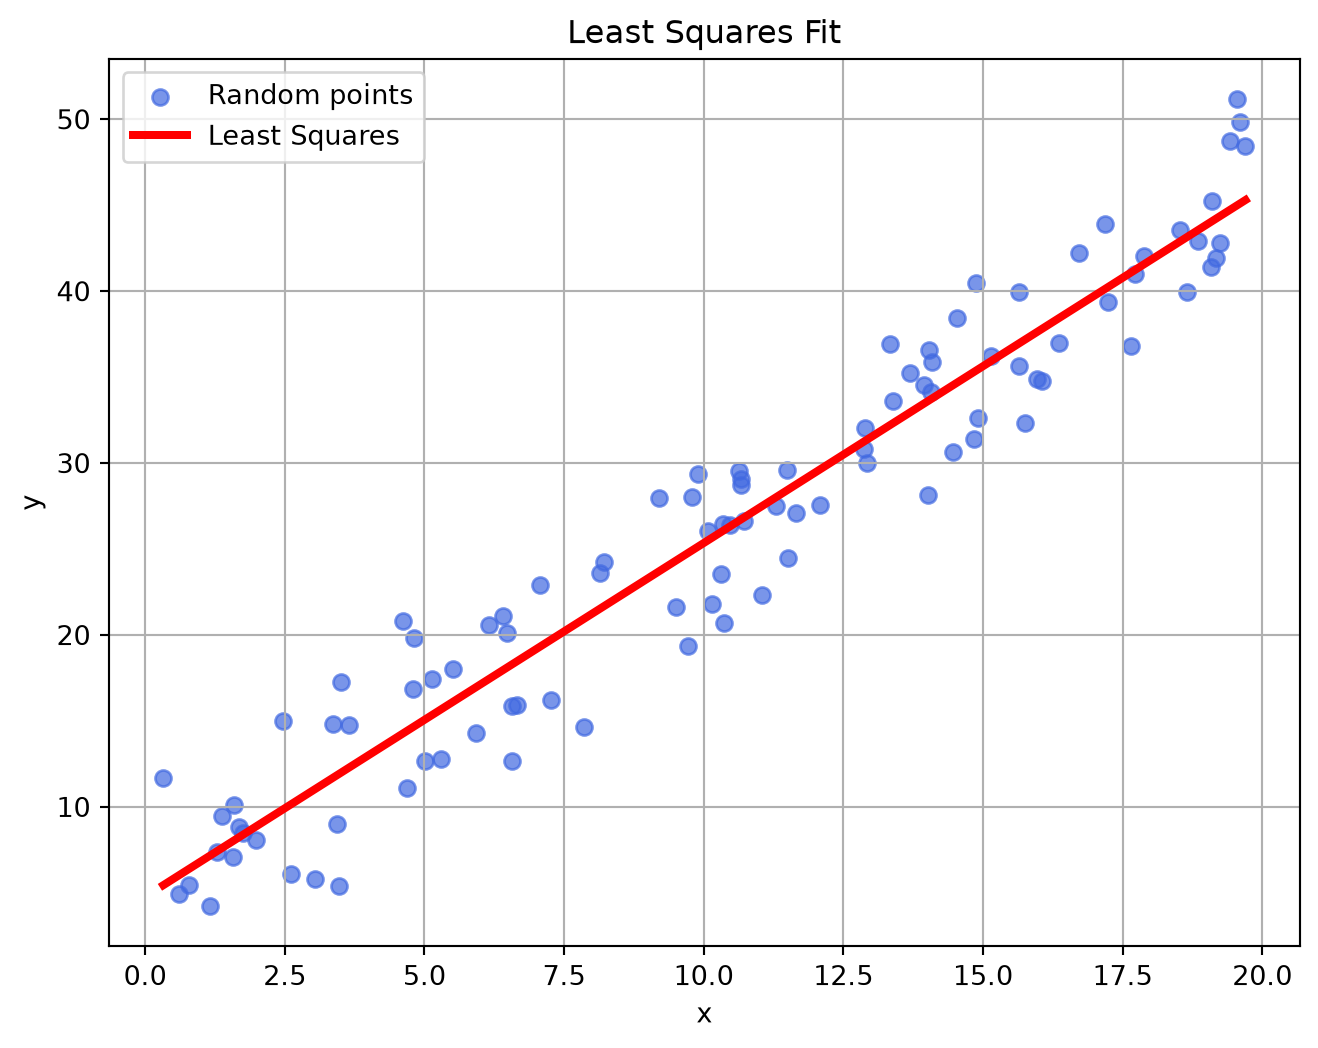
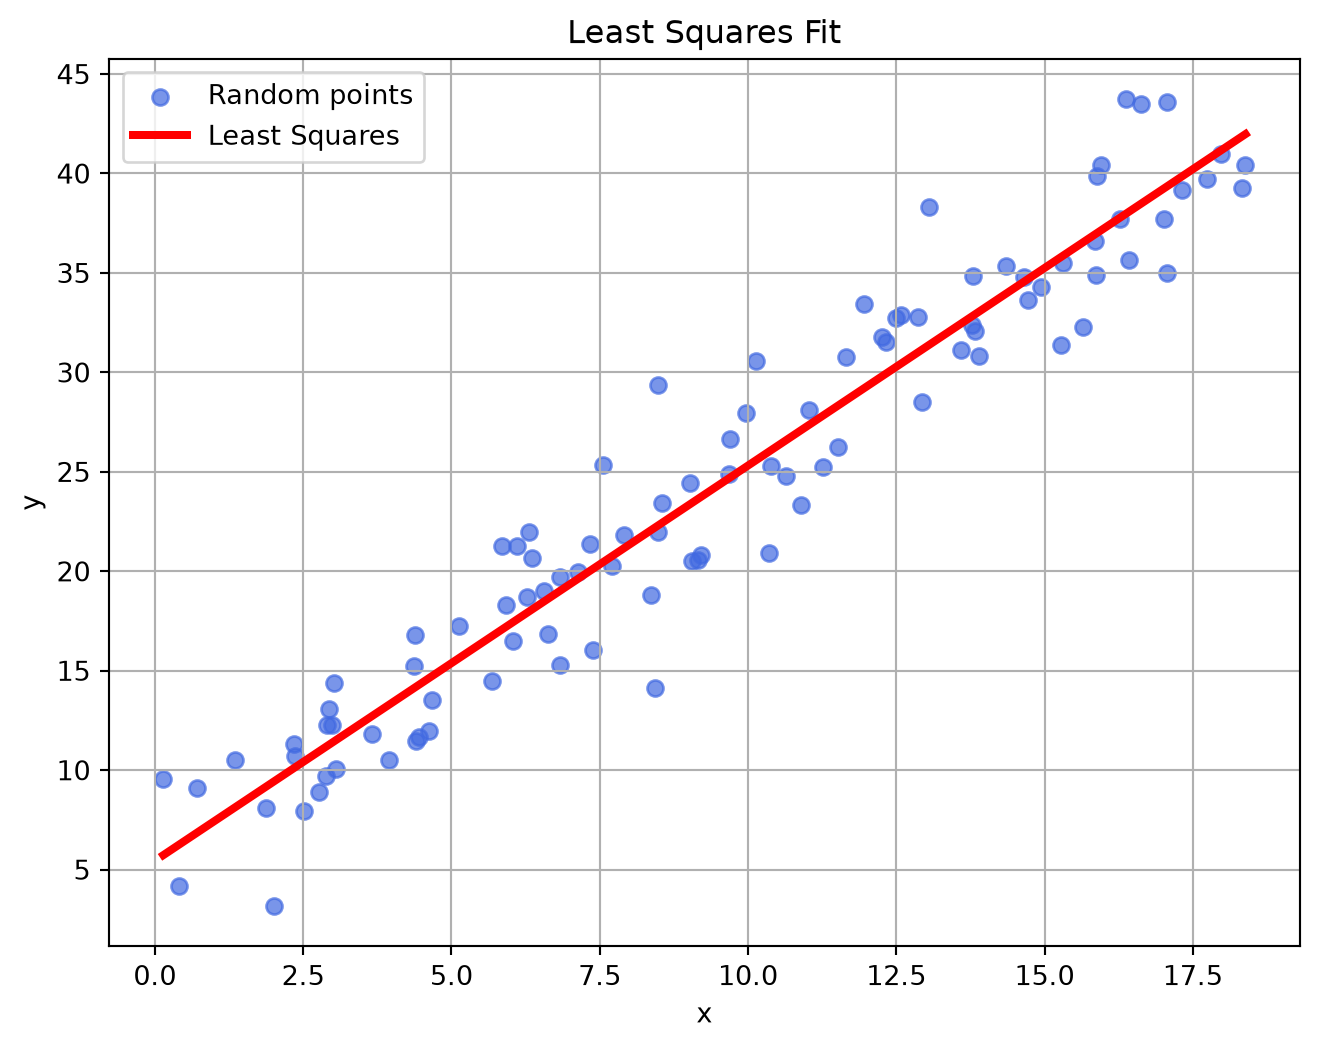
secondderivativetest

diff --git a/_site/note/multivariable-calculus/2.html b/_site/note/multivariable-calculus/2.html
@@ -489,9 +489,13 @@ window.Quarto = {
   <li><a href="#điểm-saddle" id="toc-điểm-saddle" class="nav-link" data-scroll-target="#điểm-saddle">Điểm saddle</a></li>
   </ul></li>
   <li><a href="#least-squares" id="toc-least-squares" class="nav-link" data-scroll-target="#least-squares">Least squares</a></li>
+  <li><a href="#second-derivative-test" id="toc-second-derivative-test" class="nav-link" data-scroll-target="#second-derivative-test">Second derivative test</a>
+  <ul class="collapse">
+  <li><a href="#general-case" id="toc-general-case" class="nav-link" data-scroll-target="#general-case">General case</a></li>
+  </ul></li>
   <li><a href="#differentials" id="toc-differentials" class="nav-link" data-scroll-target="#differentials">Differentials</a></li>
   <li><a href="#chain-rule" id="toc-chain-rule" class="nav-link" data-scroll-target="#chain-rule">Chain rule</a></li>
-  <li><a href="#gradientb" id="toc-gradientb" class="nav-link" data-scroll-target="#gradientb">Gradientb</a></li>
+  <li><a href="#gradient" id="toc-gradient" class="nav-link" data-scroll-target="#gradient">Gradient</a></li>
   <li><a href="#directional-derivative" id="toc-directional-derivative" class="nav-link" data-scroll-target="#directional-derivative">Directional derivative</a></li>
   <li><a href="#tangent-plane-1" id="toc-tangent-plane-1" class="nav-link" data-scroll-target="#tangent-plane-1">Tangent plane</a></li>
   <li><a href="#lagrange-multipliers" id="toc-lagrange-multipliers" class="nav-link" data-scroll-target="#lagrange-multipliers">Lagrange multipliers</a></li>
@@ -533,7 +537,7 @@ window.Quarto = {
 <h1>Functions of several variables</h1>
 <p>Như ta đã tiếp xúc với hàm đơn biến từ trước, ví dụ như <span class="math inline">f(x) = x^2</span> hay <span class="math inline">f(x) = -x + 2</span>. Thì trong không gian 3 chiều, hay tổng quát hơn là n chiều, chúng ta cũng có thể biểu diễn nó bằng <span class="math inline">n - 1</span> biến.</p>
 <p>Ví dụ: Hàm <span class="math inline">f(x, y) = x^2 + y^2</span></p>
-<div id="300fc02b" class="cell" data-execution_count="1">
+<div id="625bb9bd" class="cell" data-execution_count="1">
 <details class="code-fold">
 <summary>Code</summary>
 <div class="code-copy-outer-scaffold"><div class="sourceCode cell-code" id="cb1"><pre class="sourceCode python code-with-copy"><code class="sourceCode python"><span id="cb1-1"><a href="#cb1-1" aria-hidden="true" tabindex="-1"></a><span class="im">import</span> numpy <span class="im">as</span> np</span>
@@ -581,7 +585,7 @@ window.Quarto = {
 f_x = \frac {\partial f}{\partial x} = \lim _{\Delta x \rightarrow 0} \frac{f(x_0 + \Delta x, y_0) - f(x_0, y_0)}{\Delta x} \\
 f_y = \frac {\partial f}{\partial x} = \lim _{\Delta y \rightarrow 0} \frac{f(x_0, y_0 + \Delta y) - f(x_0, y_0)}{\Delta y}
 </span></p>
-<div id="b8c2495d" class="cell" data-execution_count="2">
+<div id="38bfc496" class="cell" data-execution_count="2">
 <div class="cell-output cell-output-display">
 <div>
 <figure class="figure">
@@ -594,7 +598,7 @@ f_y = \frac {\partial f}{\partial x} = \lim _{\Delta y \rightarrow 0} \frac{f(x_
 <h2 class="anchored" data-anchor-id="cách-tính-đạo-hàm-từng-phần">Cách tính đạo hàm từng phần</h2>
 <p>Như đã nói ở trước, ta sẽ coi một biến là hằng số.</p>
 <p>Ví dụ hàm <span class="math inline">f(x, y) = x^2 + x^3y + 2y + 3x</span></p>
-<div id="57e380a5" class="cell" data-execution_count="3">
+<div id="a891701b" class="cell" data-execution_count="3">
 <details class="code-fold">
 <summary>Code</summary>
 <div class="code-copy-outer-scaffold"><div class="sourceCode cell-code" id="cb2"><pre class="sourceCode python code-with-copy"><code class="sourceCode python"><span id="cb2-1"><a href="#cb2-1" aria-hidden="true" tabindex="-1"></a><span class="im">import</span> numpy <span class="im">as</span> np</span>
@@ -659,7 +663,7 @@ f_y = \frac {\partial f}{\partial x} = \lim _{\Delta y \rightarrow 0} \frac{f(x_
 <p>Tương tự vậy với mặt phẳng 3D, tiếp tuyến của điểm là mặt phẳng 2D tạo bởi 2 đường tiếp tuyến khi đạo hàm theo x và đạo hàm theo y tại điểm đó.</p>
 <p>Ví dụ: <span class="math inline">f(x, y) = x^2 + y^2</span></p>
 <p>Ta xét tại điểm <span class="math inline">(x_0, y_0) = (1, 1)</span>, mặt phẳng tiếp tuyến là mặt phẳng màu cam trong hình.</p>
-<div id="575301fb" class="cell" data-execution_count="4">
+<div id="df3133b8" class="cell" data-execution_count="4">
 <details class="code-fold">
 <summary>Code</summary>
 <div class="code-copy-outer-scaffold"><div class="sourceCode cell-code" id="cb3"><pre class="sourceCode python code-with-copy"><code class="sourceCode python"><span id="cb3-1"><a href="#cb3-1" aria-hidden="true" tabindex="-1"></a><span class="im">import</span> numpy <span class="im">as</span> np</span>
@@ -733,7 +737,7 @@ f_y = \frac {\partial f}{\partial x} = \lim _{\Delta y \rightarrow 0} \frac{f(x_
 <p>Nhưng cũng vì thế mà sẽ có 3 trường hợp xảy ra:</p>
 <section id="điểm-cực-tiểu" class="level2">
 <h2 class="anchored" data-anchor-id="điểm-cực-tiểu">Điểm cực tiểu</h2>
-<div id="2ef5accd" class="cell" data-execution_count="5">
+<div id="f26831ad" class="cell" data-execution_count="5">
 <details class="code-fold">
 <summary>Code</summary>
 <div class="code-copy-outer-scaffold"><div class="sourceCode cell-code" id="cb4"><pre class="sourceCode python code-with-copy"><code class="sourceCode python"><span id="cb4-1"><a href="#cb4-1" aria-hidden="true" tabindex="-1"></a><span class="im">import</span> numpy <span class="im">as</span> np</span>
@@ -803,7 +807,7 @@ f_y = \frac {\partial f}{\partial x} = \lim _{\Delta y \rightarrow 0} \frac{f(x_
 </section>
 <section id="điểm-cực-đại" class="level2">
 <h2 class="anchored" data-anchor-id="điểm-cực-đại">Điểm cực đại</h2>
-<div id="c2440589" class="cell" data-execution_count="6">
+<div id="d732ba14" class="cell" data-execution_count="6">
 <details class="code-fold">
 <summary>Code</summary>
 <div class="code-copy-outer-scaffold"><div class="sourceCode cell-code" id="cb5"><pre class="sourceCode python code-with-copy"><code class="sourceCode python"><span id="cb5-1"><a href="#cb5-1" aria-hidden="true" tabindex="-1"></a><span class="im">import</span> numpy <span class="im">as</span> np</span>
@@ -874,7 +878,7 @@ f_y = \frac {\partial f}{\partial x} = \lim _{\Delta y \rightarrow 0} \frac{f(x_
 <section id="điểm-saddle" class="level2">
 <h2 class="anchored" data-anchor-id="điểm-saddle">Điểm saddle</h2>
 <p>Vừa là cực dại vừa là cực tiểu.</p>
-<div id="f1dd67ef" class="cell" data-execution_count="7">
+<div id="ec77fa51" class="cell" data-execution_count="7">
 <details class="code-fold">
 <summary>Code</summary>
 <div class="code-copy-outer-scaffold"><div class="sourceCode cell-code" id="cb6"><pre class="sourceCode python code-with-copy"><code class="sourceCode python"><span id="cb6-1"><a href="#cb6-1" aria-hidden="true" tabindex="-1"></a><span class="im">import</span> numpy <span class="im">as</span> np</span>
@@ -946,7 +950,7 @@ f_y = \frac {\partial f}{\partial x} = \lim _{\Delta y \rightarrow 0} \frac{f(x_
 </section>
 <section id="least-squares" class="level1">
 <h1>Least squares</h1>
-<div id="65fb4f34" class="cell" data-execution_count="8">
+<div id="258c557c" class="cell" data-execution_count="8">
 <details class="code-fold">
 <summary>Code</summary>
 <div class="code-copy-outer-scaffold"><div class="sourceCode cell-code" id="cb7"><pre class="sourceCode python code-with-copy"><code class="sourceCode python"><span id="cb7-1"><a href="#cb7-1" aria-hidden="true" tabindex="-1"></a><span class="im">import</span> numpy <span class="im">as</span> np</span>
@@ -1055,6 +1059,49 @@ a \\ b
 </span></p>
 <hr>
 </section>
+<section id="second-derivative-test" class="level1">
+<h1>Second derivative test</h1>
+<p>Như đã nói ở trước, Second derivative có thể giúp xác định xem đó là suy biến, cực đại, cực tiểu, hay là điểm saddle (yên ngựa).</p>
+<p><span class="math display">
+w = a\left(x^2 + \frac b a xy\right) + cy^2
+</span></p>
+<p><span class="math display">
+w = a\left(x + \frac b {2a} y\right)^2 + \left(c - \frac {b^2}{4a}\right)y^2
+</span></p>
+<p><span class="math display">
+w = \frac 1 {4a} \left[ 4a^2 \left( x + \frac b {2a}y \right)^2  + (4ac - b^2)y^2 \right]
+</span></p>
+<p>3 cases:</p>
+<ol type="1">
+<li><span class="math inline">4ac - b^2 &lt; 0 \Rightarrow</span> saddle point.</li>
+<li><span class="math inline">4ac - b^2 = 0 \Rightarrow</span> degenerate critical point.</li>
+<li><span class="math inline">4ac - b^2 &gt; 0</span>
+<ul>
+<li><span class="math inline">\rightarrow</span> if <span class="math inline">a &gt; 0</span> minimum.</li>
+<li><span class="math inline">\rightarrow</span> if <span class="math inline">a &lt; 0</span> maximum.</li>
+</ul></li>
+</ol>
+<section id="general-case" class="level2">
+<h2 class="anchored" data-anchor-id="general-case">General case</h2>
+<p><span class="math display">
+\frac {\partial^2 f}{\partial x^2} = f_{xx}; \space
+\frac {\partial^2 f}{\partial y^2} = f_{yy}; \space
+\frac {\partial^2 f}{\partial x \partial y} = f_{xy} =
+\frac {\partial^2 f}{\partial y \partial x} = f_{yx}
+</span></p>
+<p>Let <span class="math inline">A = f_{xx}</span>, <span class="math inline">B = f_{xy}</span> and <span class="math inline">C = f_{yy}</span>, we have 3 cases:</p>
+<ol type="1">
+<li><span class="math inline">AC - B^2 &lt; 0 \Rightarrow</span> saddle point.</li>
+<li><span class="math inline">AC - B^2 = 0 \Rightarrow</span> cant conclude</li>
+<li><span class="math inline">AC - B^2 &gt; 0</span>
+<ul>
+<li><span class="math inline">\rightarrow</span> if <span class="math inline">A &gt; 0</span> local minimum.</li>
+<li><span class="math inline">\rightarrow</span> if <span class="math inline">A &lt; 0</span> local maximum.</li>
+</ul></li>
+</ol>
+<hr>
+</section>
+</section>
 <section id="differentials" class="level1">
 <h1>Differentials</h1>
 <hr>
@@ -1063,8 +1110,8 @@ a \\ b
 <h1>Chain rule</h1>
 <hr>
 </section>
-<section id="gradientb" class="level1">
-<h1>Gradientb</h1>
+<section id="gradient" class="level1">
+<h1>Gradient</h1>
 <hr>
 </section>
 <section id="directional-derivative" class="level1">